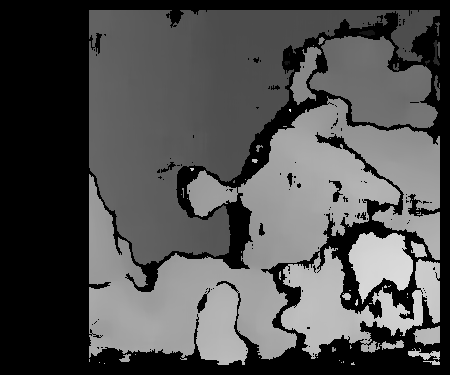
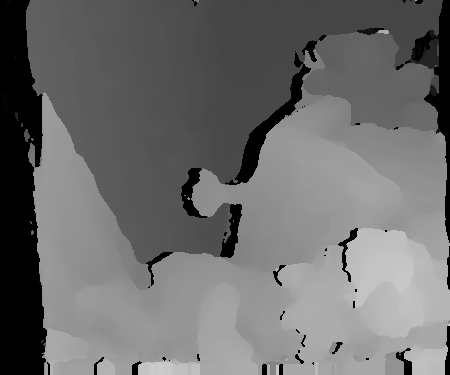
stereoSGBM

diff --git a/parallax/src/parallax.cpp b/parallax/src/parallax.cpp
@@ -1,3 +1,4 @@
+
 #include <iostream>
 #include "opencv2/core/core.hpp"
 #include "opencv2/highgui/highgui.hpp"
@@ -9,8 +10,8 @@ using namespace cv;
 
 int main(int argc, char ** argv)
 {
-  Mat imgl = imread("../data/image1.jpg", IMREAD_GRAYSCALE);
-  Mat imgr = imread("../data/image2.jpg", IMREAD_GRAYSCALE);
+  Mat imgl = imread("../data/imgl.jpg", IMREAD_GRAYSCALE);
+  Mat imgr = imread("../data/imgr.jpg", IMREAD_GRAYSCALE);
   
   Mat imgDisparity16S = Mat(imgl.rows, imgl.cols, CV_16S);
   Mat imgDisparity8U = Mat(imgl.rows, imgl.cols, CV_8UC1);
@@ -24,10 +25,11 @@ int main(int argc, char ** argv)
   int ndisparities = 16 * 5;
   int SADWindowSize = 21;
   
-  //Ptr<StereoBM> sbm = StereoBM::create(ndisparities, SADWindowSize);
-  StereoBM sbm(CV_STEREO_BM_BASIC, ndisparities, SADWindowSize);
+  Ptr<StereoBM> sbm = StereoBM::create(ndisparities, SADWindowSize);
+  //StereoSGBM sbm(CV_STEREO_BM_BASIC, ndisparities, SADWindowSize);
   
   sbm.operator()(imgl, imgr, imgDisparity16S, CV_16S);
+  //sbm.operator()(imgl, imgr, imgDisparity16S);
   
   double minVal, maxVal;
   
@@ -39,9 +41,10 @@ int main(int argc, char ** argv)
   namedWindow("display disparity image", WINDOW_NORMAL);
   imshow("display disparity image", imgDisparity8U);
   
-  imwrite("../data/disparity.jpg", imgDisparity8U);
+  imwrite("../data/disparity.png", imgDisparity8U);
   
   waitKey(0);
   return 0;
   
 }
+
